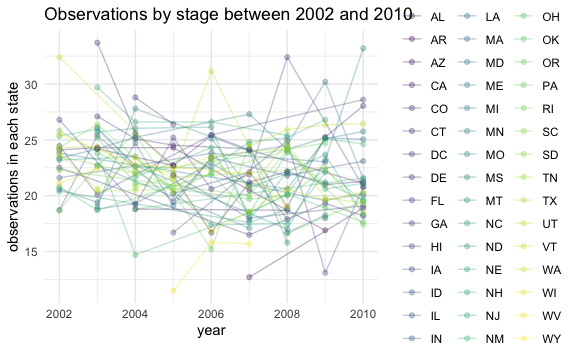
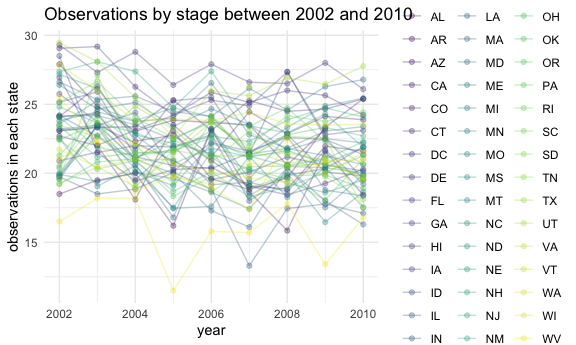
mostly fixed the 2-panel plot! needed to use %>% instead of == for filter in brfss cleaning

diff --git a/p8105_hw3_lcp2148.md b/p8105_hw3_lcp2148.md
@@ -41,12 +41,6 @@ I load the Instacart data from the p8105.datasets using:
 data("instacart")
 ```
 
-The goal is to do some exploration of this dataset. To that end, write a
-short description of the dataset, noting the size and structure of the
-data, describing some key variables, and giving illstrative examples of
-observations. Then, do or answer the following (commenting on the
-results of each):
-
 The dimensions of the instacart data set are 1384617, 15, with 20769255
 observations, and the variables in this data set are: order\_id,
 product\_id, add\_to\_cart\_order, reordered, user\_id, eval\_set,
@@ -152,15 +146,8 @@ knitr::kable(insta_table, caption = "Most popular items in three aisles")
 Most popular items in three aisles
 
 Next, I make a table showing the mean hour of the day at which Pink Lady
-Apples and Coffee Ice Cream are ordered on each day of the week,
-formatting for human readers. \#\# mutate(product\_name =
-tolower(product\_name), \#\# order\_dow = recode(order\_dow, 0 =
-“sunday”, 1 = “monday”, 2 = \#\# “tuesday”, 3 = “wednesday”, 4 =
-“thursday”, \#\# 5 = “friday”, 6 = “saturday”)) %&gt;%
-
-## mutate(order\_dow = fct\_reorder(order\_dow, “sunday”, “monday”, “tuesday”, “wednesday”,
-
-## “thursday”, “friday”, “saturday”)) %&gt;%
+Apples and Coffee Ice Cream are ordered on each day of the week, using
+`pivot_wider` to make it a 2x7 table.
 
 ``` r
 insta_table2 = 
@@ -209,16 +196,13 @@ brfss =
   brfss_smart2010 %>% 
   janitor::clean_names() %>%
   filter(topic == "Overall Health", 
-         response == c("Excellent", "Very Good", "Good", "Fair", "Poor")) %>%
+         response %in% c("Excellent", "Very Good", "Good", "Fair", "Poor")) %>%
   mutate(response = factor(response, levels = c("Excellent", "Very Good", "Good", "Fair", "Poor") )) %>%
   arrange(response) %>% 
   rename(state = locationabbr) %>% 
   select(-c(data_value_footnote, data_value_footnote_symbol, location_id)) %>% 
   drop_na()
 ```
-
-    ## Warning in response == c("Excellent", "Very Good", "Good", "Fair", "Poor"):
-    ## longer object length is not a multiple of shorter object length
 
 Using this dataset, do or answer the following (commenting on the
 results of each):
@@ -239,12 +223,42 @@ knitr::kable(brfss_2002,
 
 | state |   n |
 |:------|----:|
-| GA    |   8 |
-| MA    |   9 |
+| AZ    |   8 |
+| CO    |  16 |
+| CT    |  28 |
+| DE    |  12 |
+| FL    |  28 |
+| GA    |  12 |
+| HI    |  16 |
+| ID    |   8 |
+| IL    |  12 |
+| IN    |   8 |
+| KS    |  12 |
+| LA    |  12 |
+| MA    |  32 |
+| MD    |  24 |
 | ME    |   8 |
-| NJ    |   8 |
-| OH    |   8 |
-| PA    |  15 |
+| MI    |  16 |
+| MN    |  16 |
+| MO    |   8 |
+| NC    |  28 |
+| NE    |  12 |
+| NH    |  20 |
+| NJ    |  24 |
+| NV    |   8 |
+| NY    |  20 |
+| OH    |  16 |
+| OK    |  12 |
+| OR    |  12 |
+| PA    |  40 |
+| RI    |  16 |
+| SC    |  12 |
+| SD    |   8 |
+| TN    |   8 |
+| TX    |   8 |
+| UT    |  20 |
+| VT    |  12 |
+| WA    |  16 |
 
 States observed at 7 or more locations, 2002
 
@@ -261,19 +275,51 @@ knitr::kable(brfss_2010,
 
 | state |   n |
 |:------|----:|
-| CA    |  13 |
-| CO    |   8 |
-| FL    |  31 |
-| ID    |   8 |
-| MA    |   8 |
-| MD    |  12 |
-| ME    |   8 |
-| NY    |  12 |
-| OH    |   7 |
-| SC    |   7 |
-| TN    |   8 |
-| TX    |  14 |
-| UT    |   7 |
+| AL    |  12 |
+| AR    |  12 |
+| AZ    |  12 |
+| CA    |  48 |
+| CO    |  28 |
+| CT    |  20 |
+| DE    |  12 |
+| FL    | 161 |
+| GA    |  16 |
+| HI    |  16 |
+| IA    |   8 |
+| ID    |  24 |
+| IL    |   8 |
+| IN    |  12 |
+| KS    |  16 |
+| LA    |  20 |
+| MA    |  36 |
+| MD    |  48 |
+| ME    |  24 |
+| MI    |  16 |
+| MN    |  20 |
+| MO    |  12 |
+| MS    |   8 |
+| MT    |  12 |
+| NC    |  48 |
+| ND    |  12 |
+| NE    |  40 |
+| NH    |  20 |
+| NJ    |  76 |
+| NM    |  24 |
+| NV    |   8 |
+| NY    |  36 |
+| OH    |  32 |
+| OK    |  12 |
+| OR    |  16 |
+| PA    |  28 |
+| RI    |  20 |
+| SC    |  28 |
+| SD    |   8 |
+| TN    |  20 |
+| TX    |  63 |
+| UT    |  24 |
+| VT    |  24 |
+| WA    |  40 |
+| WY    |   8 |
 
 States observed at 7 or more locations, 2010
 
